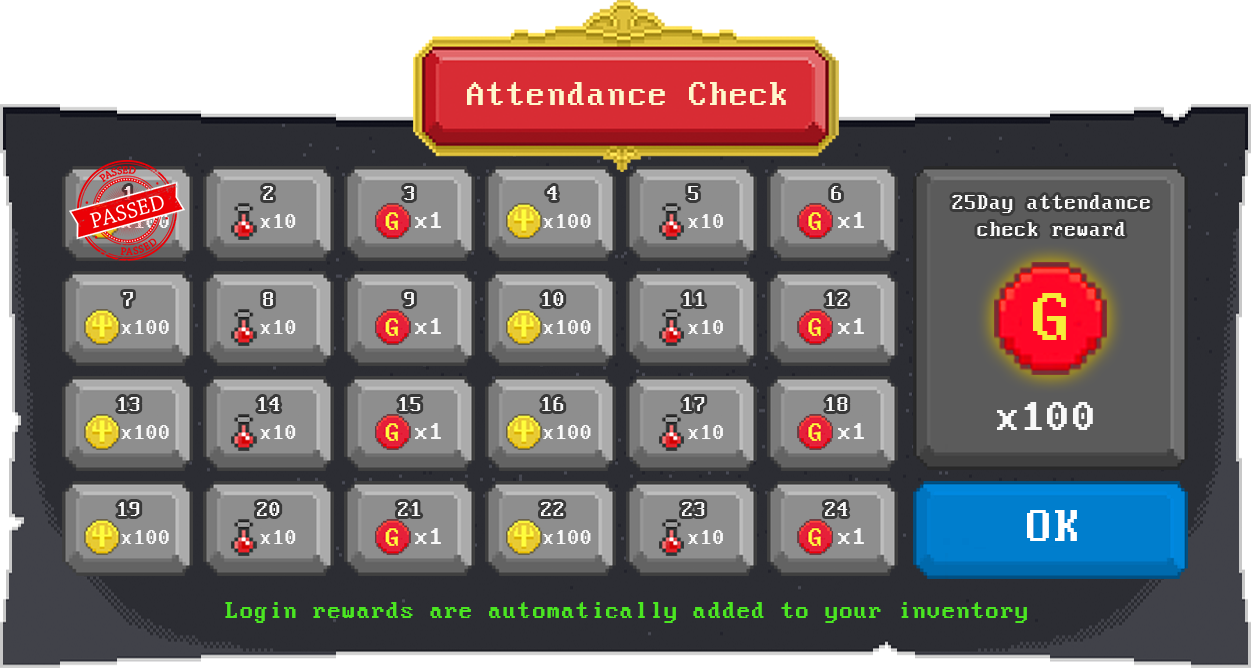
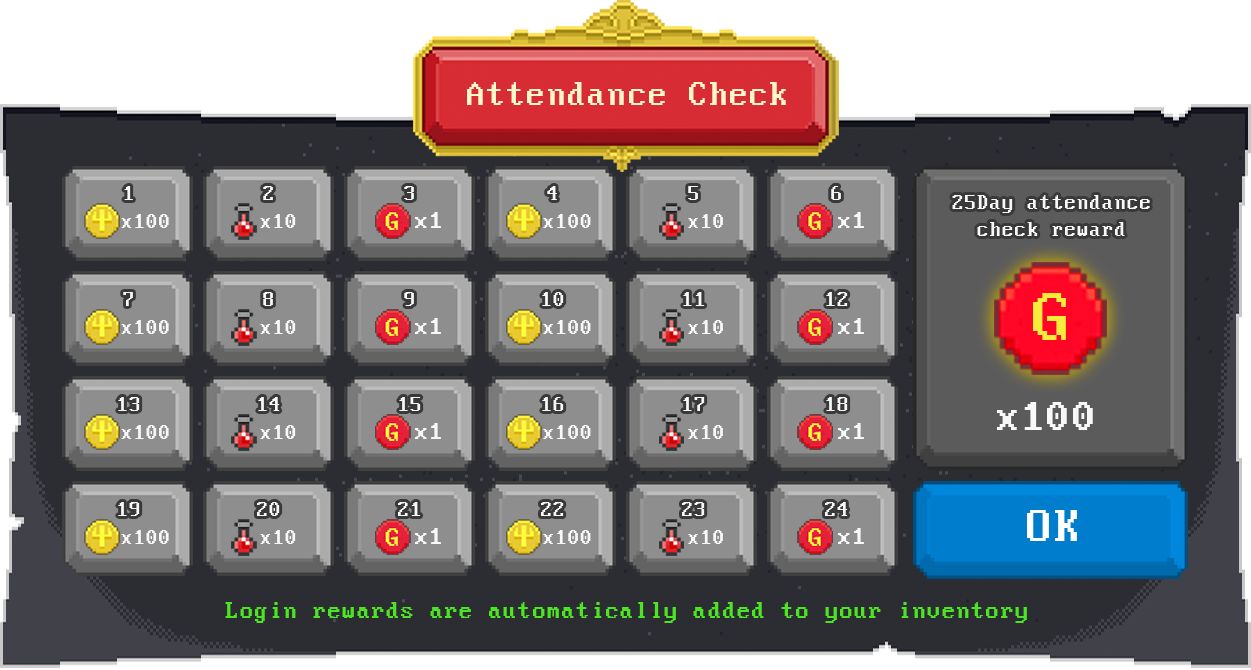
fix check attendance

Changed region(s): [[0.0312, 0.2388, 0.1559, 0.3881]]

diff --git a/client/js/controllers/interface.js b/client/js/controllers/interface.js
@@ -2,8 +2,10 @@
 
 define(['jquery', '../interface/inventory',
         '../interface/profile/profile', '../interface/actions',
-        '../interface/bank', '../interface/enchant', '../interface/warp', '../interface/shop', '../interface/wallet'],
-    function($, Inventory, Profile, Actions, Bank, Enchant, Warp, Shop, Wallet) {
+        '../interface/bank', '../interface/enchant',
+        '../interface/warp', '../interface/shop',
+        '../interface/wallet', '../interface/attendance'],
+    function($, Inventory, Profile, Actions, Bank, Enchant, Warp, Shop, Wallet, Attendance) {
 
     return Class.extend({
 
@@ -18,7 +20,6 @@ define(['jquery', '../interface/inventory',
             self.fade = $('#notifFade');
             self.done = $('#notifyDone');
             self.guide = $('#guide');
-            self.attendance = $('#attendance');
 
             self.inventory = null;
             self.profile = null;
@@ -32,6 +33,7 @@ define(['jquery', '../interface/inventory',
             self.loadWarp();
             self.loadShop();
             self.loadWallet();
+            self.loadAttendance();
 
             self.done.click(function() {
                 self.hideNotify();
@@ -40,12 +42,7 @@ define(['jquery', '../interface/inventory',
             self.guide.click(function() {
                 self.guide.css('opacity', 0);
                 self.guide.css('display', 'none');
-            })
-
-            self.attendance.find('.attendance-ok').click(function() {
-                self.attendance.css('opacity', 0);
-                self.attendance.css('display', 'none');
-            })
+            });
         },
 
         resize: function() {
@@ -136,6 +133,13 @@ define(['jquery', '../interface/inventory',
 
             if (!self.wallet)
                 self.wallet = new Wallet(self.game, self);
+        },
+
+        loadAttendance: function() {
+            var self = this;
+
+            if(!self.attendance)
+                self.attendance = new Attendance(self.game, self);
         },
 
         loadNotifications: function() {

diff --git a/server/js/game/entity/character/player/player.js b/server/js/game/entity/character/player/player.js
@@ -468,12 +468,43 @@ module.exports = Player = Character.extend({
                 username: self.username
             }
         };
-        self.mysql.selectData('attendance', data, function (error, rows, fields) {
-        })
-        var start = new Date(Attendance.start);
+        var type = "UPDATE IGNORE";
+        var count = 0;
         var now = new Date();
+        now.setHours(0, 0, 0, 0);
+        var isValid = false;
+        self.mysql.selectData('player_attendance', data, function (error, rows, fields) {
+            if (rows.length <= 0) {
+                type = "INSERT INTO";
+                count = 0;
+                isValid = true;
+            } else {
+                var info = rows.shift();
+                count = info.count;
+                var updateString = new Date(info.updateDate);
+                updateString.setHours(0, 0, 0, 0);
+                isValid = now.toISOString() !== updateString.toISOString();
+            }
 
-        self.send(new Messages.Attendance(self.instance, []));
+            if (isValid) {
+                count++;
+                var reward = Attendance.items[count - 1];
+                var item = {
+                    id: reward.item,
+                    count: reward.amount,
+                }
+                self.inventory.add(item);
+
+                var data = {
+                    username: self.username,
+                    count,
+                    updateDate: now
+                };
+                self.mysql.queryData(type, 'player_attendance', data);
+            }
+
+            self.send(new Messages.Attendance(Packets.AttendanceOpcode.Set, count));
+        });
     },
 
     revertPoints: function() {

diff --git a/client/js/network/messages.js b/client/js/network/messages.js
@@ -59,6 +59,7 @@ define(function() {
             self.messages[Packets.Shop] = self.receiveShop;
             self.messages[Packets.Minigame] = self.receiveMinigame;
             self.messages[Packets.Wallet] = self.receiveWallet;
+            self.messages[Packets.Attendance] = self.receiveAttendance;
 
         },
 
@@ -447,8 +448,17 @@ define(function() {
                 opcode = data.shift(),
                 info = data.shift();
 
-            if (self.minigameCallback)
+            if (self.walletCallback)
                 self.walletCallback(opcode, info);
+        },
+
+        receiveAttendance: function(data) {
+            var self = this,
+                opcode = data.shift(),
+                info = data.shift();
+
+            if (self.attendanceCallback)
+                self.attendanceCallback(opcode, info);
         },
 
         /**
@@ -597,6 +607,10 @@ define(function() {
 
         onWallet: function(callback) {
             this.walletCallback = callback;
+        },
+
+        onAttendance: function(callback) {
+            this.attendanceCallback = callback;
         }
 
     });

diff --git a/client/js/interface/attendance.js b/client/js/interface/attendance.js
@@ -1,0 +1,40 @@
+define(['jquery'], function($) {
+
+    return Class.extend({
+
+        init: function(game, interface) {
+            var self = this;
+
+            self.game = game;
+            self.interface = interface;
+
+            self.attendance = $('#attendance');
+            self.stamps = self.attendance.find('.stamps');
+            self.attendanceOK = self.attendance.find('.attendance-ok');
+
+            self.attendanceOK.click(function() {
+                self.attendance.css('opacity', 0);
+                self.attendance.css('display', 'none');
+            })
+        },
+
+        update: function(data) {
+            var self = this;
+
+            var size = 25;
+
+            if (size > 25) {
+                self.attendanceOk.click();
+            }
+
+            var $stamp = $('<div class="stamp"></div>');
+            for (var i=1; i <= data && i < size; i++) {
+                self.stamps.append($stamp.clone());
+            }
+
+            if(data === size) {
+                self.attendance($('<div class="big-stamp"></div>'))
+            }
+        }
+    });
+});

diff --git a/server/js/game/entity/character/player/containers/inventory/inventory.js b/server/js/game/entity/character/player/containers/inventory/inventory.js
@@ -149,8 +149,8 @@ module.exports = Inventory = Container.extend({
                                     if (quantity === count) {
                                         balance -= quantity;
                                         var type = 'UPDATE IGNORE';
-                                        var updateDate = { username: self.owner.username, gqtToken: balance };
-                                        self.owner.mysql.queryData(type, 'player_wallet', updateDate);
+                                        var updateData = { username: self.owner.username, gqtToken: balance };
+                                        self.owner.mysql.queryData(type, 'player_wallet', updateData);
                                         var data = { type: 'token', amount: balance };
                                         self.owner.send(new Messages.Wallet(Packets.WalletOpcode.Set, data));
                                         if (callback) callback();

diff --git a/server/js/controllers/incoming.js b/server/js/controllers/incoming.js
@@ -213,10 +213,13 @@ module.exports = Incoming = cls.Class.extend({
         self.player.loadWallet();
 
         self.player.handler.detectMusic();
-        self.player.handler.detectPVP(self.player.x, self.player.y, true);
-        // self.player.handler.checkAttendance();
 
+        self.player.send(new Messages.Notification(Packets.NotificationOpcode.Text, 'Player Count Command: /players'));
+        self.player.send(new Messages.Notification(Packets.NotificationOpcode.Text, 'Global Chat Command: /global [text]'));
         self.player.send(new Messages.Notification(Packets.NotificationOpcode.Text, 'There are currently ' + self.world.getPopulation() + ' online.'));
+
+        self.player.handler.detectPVP(self.player.x, self.player.y, true);
+        self.player.handler.checkAttendance();
 
         if (self.player.readyCallback)
             self.player.readyCallback();

diff --git a/client/index.html b/client/index.html
@@ -166,13 +166,11 @@
                     </li>
                 </ul>
             </div>
-            <!-- <div id="attendance">
+            <div id="attendance">
                 <div class="stamps">
-                    <div class="stamp"></div>
-                    <div class="stamp"></div>
                 </div>
                 <div class="attendance-ok"></div>
-            </div> -->
+            </div>
             <div id="guide">
                 <div class="row justify-content-center">
                     <div class="col-3">

diff --git a/client/css/main.css b/client/css/main.css
@@ -299,6 +299,19 @@ footer div {
     margin-left: 1.5%;
     margin-right: 1.5%;    
 }
+
+#attendance .big-stamp {
+    width: 20%;
+    height: 35%;
+    background-image: url('../img/3/stamp.png');
+    background-size: 100%;
+    background-position: center;
+    background-repeat: no-repeat;
+    position: absolute;
+    right: 6%;
+    top: 30%;
+}
+
 #attendance .attendance-ok {
     width: 25%;
     height: 20%;

diff --git a/client/js/game.js b/client/js/game.js
@@ -1128,6 +1128,13 @@ define(['./renderer/renderer', './utils/storage',
                 }
             });
 
+            self.messages.onAttendance(function(opcode, info) {
+                switch (opcode) {
+                    case Packets.AttendanceOpcode.Set:
+                        self.interface.attendance.update(info);
+                }
+            });
+
         },
 
         postLoad: function() {

diff --git a/client/js/network/packets.js b/client/js/network/packets.js
@@ -42,7 +42,8 @@ Packets = {
     Warp: 40,
     Shop: 41,
     Minigame: 42,
-    Wallet: 43
+    Wallet: 43,
+    Attendance: 44
 };
 
 Packets.IntroOpcode = {
@@ -181,3 +182,7 @@ Packets.WalletOpcode = {
     Add: 1,
     Remove: 2
 };
+
+Packets.AttendanceOpcode = {
+    Set: 0
+}
